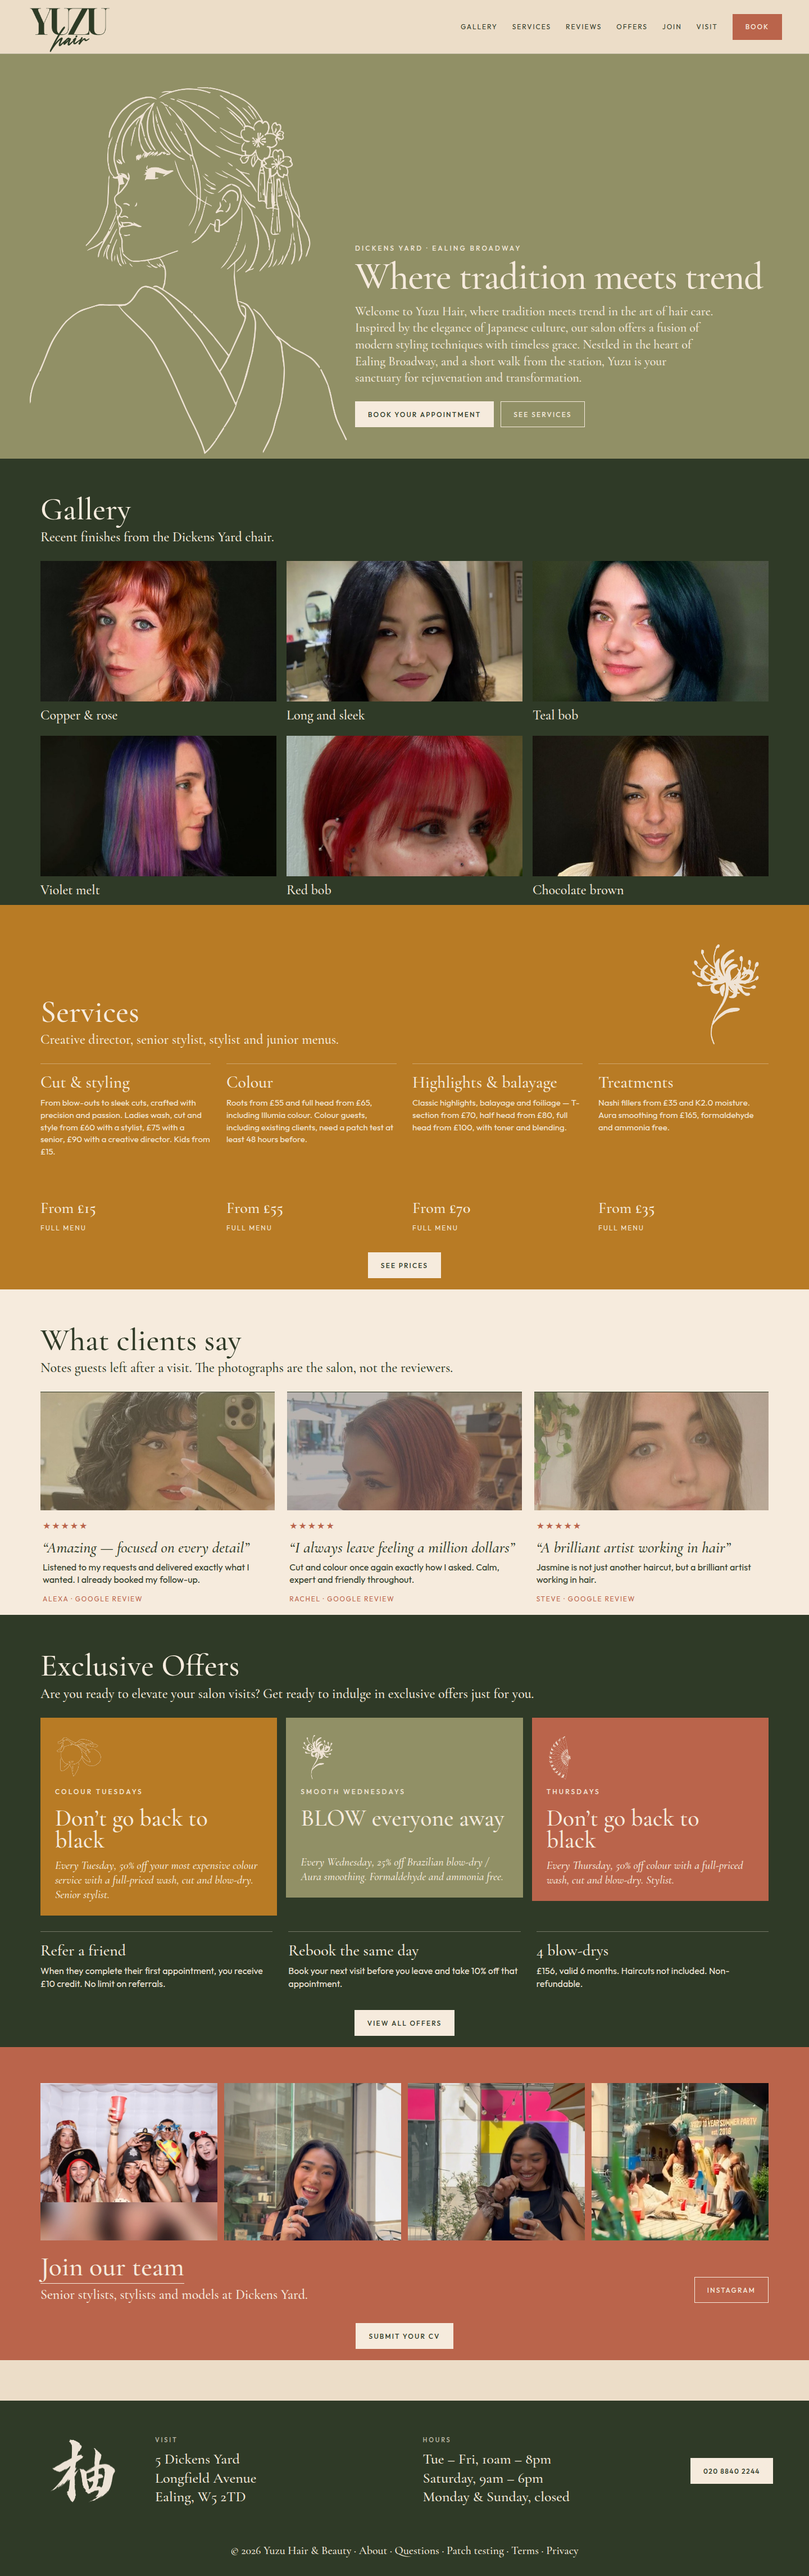
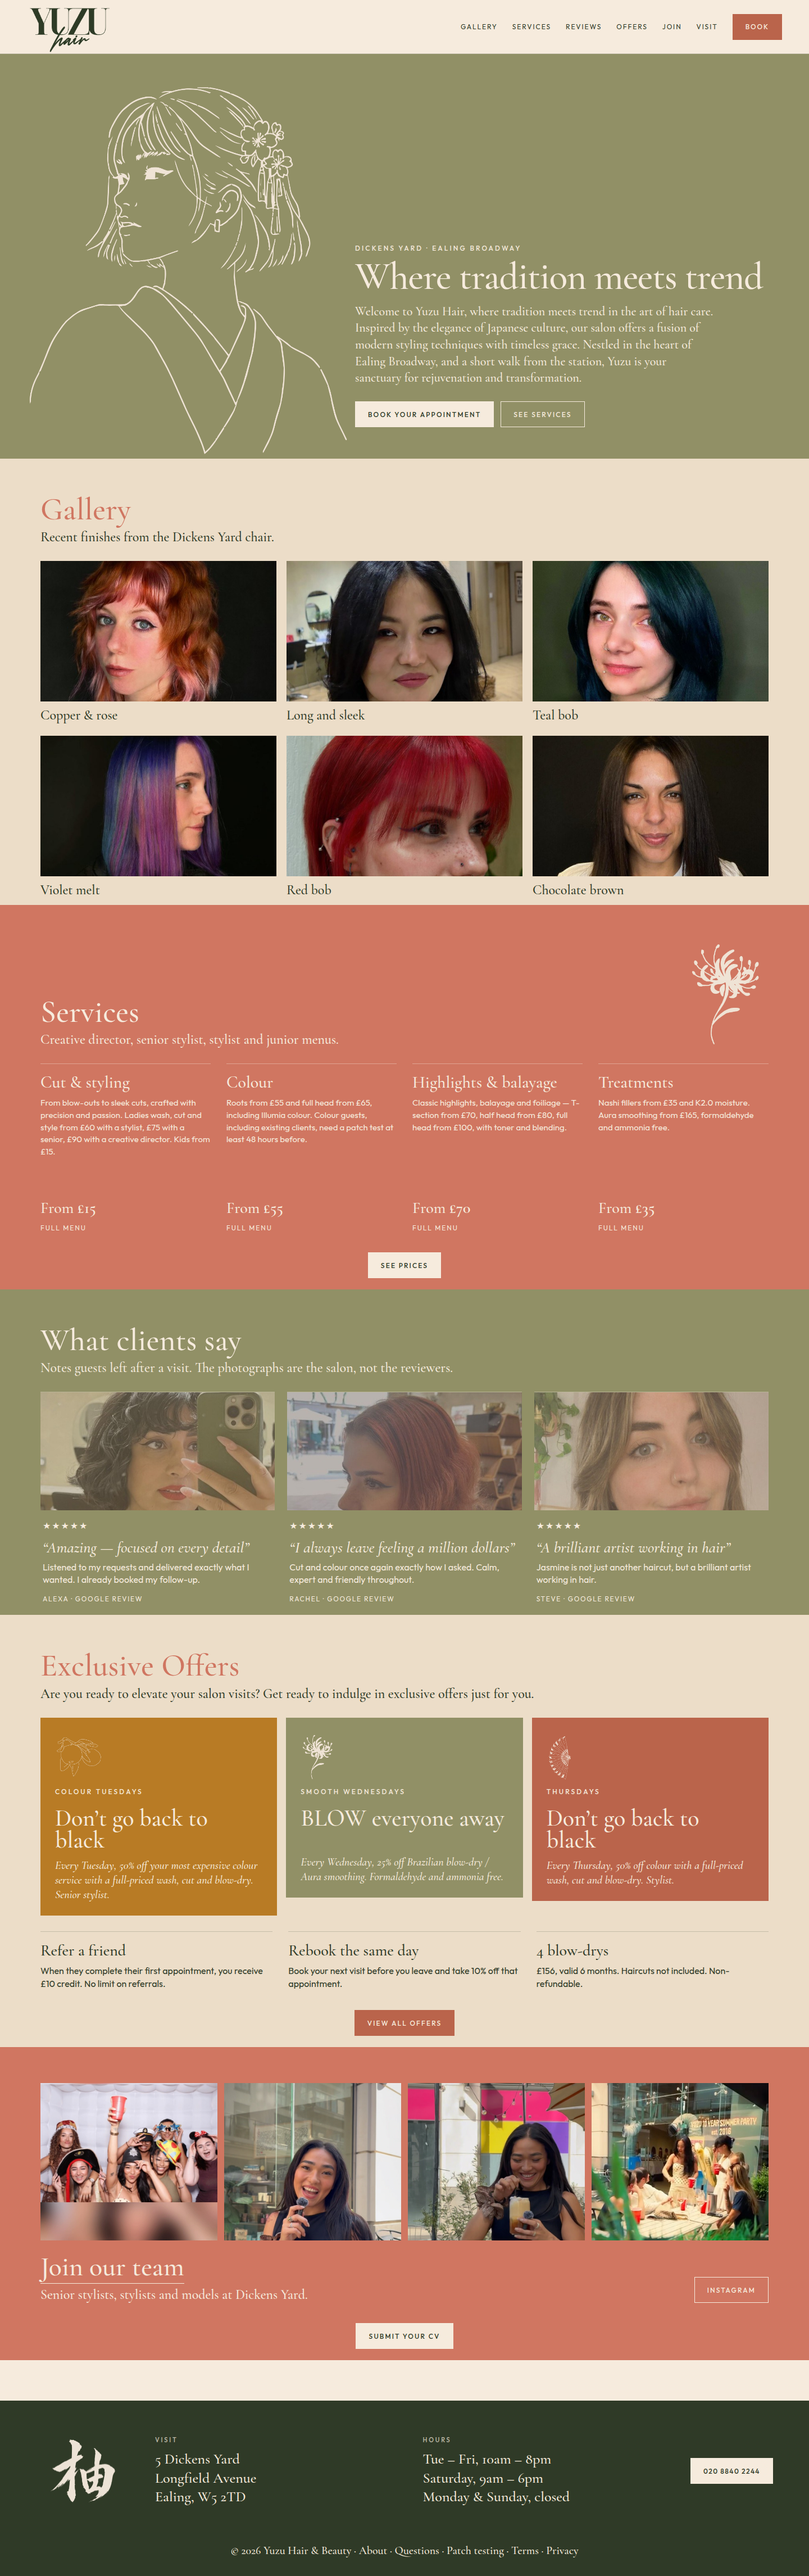
Retint the homepage clusters to the card and menu colours.
Section fields now use the business-card olive, the menu paper, and the menu-cover terracotta.

diff --git a/proposals/homepage/index.html b/proposals/homepage/index.html
@@ -33,17 +33,17 @@
     <figure>
       <a href="blocks.html"><img src="previews/blocks.png" alt="Homepage with each section in a different brand colour." /></a>
       <h2><a href="blocks.html">Colour blocks</a></h2>
-      <figcaption>The same page. Hero on olive, gallery on cream, services on forest, reviews on terracotta, offers on cream, join on mustard.</figcaption>
+      <figcaption>The same page, in the business-card olive, the menu paper, and the menu-cover terracotta. Hero and services on olive, gallery and offers on the menu paper, reviews and join on terracotta.</figcaption>
     </figure>
     <figure>
       <a href="portrait.html"><img src="previews/portrait.png" alt="Homepage with the illustrated woman as the hero." /></a>
       <h2><a href="portrait.html">Portrait</a></h2>
-      <figcaption>The woman from the print is the hero, on olive. Gallery on forest, services on mustard with the lily, offers on forest with the fruit, flower and fan.</figcaption>
+      <figcaption>The woman from the print is the hero, on the business-card olive. Gallery and offers sit on the menu paper. Services and join use the menu-cover terracotta. Reviews are on olive.</figcaption>
     </figure>
     <figure>
       <a href="drawn.html"><img src="previews/drawn.png" alt="Homepage with the illustrated man as the hero and line drawings in the reviews." /></a>
       <h2><a href="drawn.html">Drawings</a></h2>
-      <figcaption>The man from the print is the hero, on forest. The hair gallery stays. Reviews use the lily, the fruit and the fan instead of the salon photographs.</figcaption>
+      <figcaption>The man from the print is the hero, on the menu-cover terracotta. Services use the menu paper and the orange fan. Reviews are on the card olive, with the lily, the fruit and the fan.</figcaption>
     </figure>
     <figure>
       <a href="cover.html"><img src="previews/cover.png" alt="Homepage mockup. Olive field, line portrait, beige Yuzu hair logo, and a paper band with hours." /></a>

diff --git a/proposals/homepage/drawn.html b/proposals/homepage/drawn.html
@@ -6,7 +6,7 @@
   <link rel="stylesheet" href="fonts/fonts.css" />
   <link rel="stylesheet" href="now.css" />
 </head>
-<body class="now">
+<body class="now clusters">
   <header class="bar">
     <img class="logo" src="img/logo-green.png" alt="Yuzu hair" />
     <nav class="nav" aria-label="Primary">
@@ -20,7 +20,7 @@
     </nav>
   </header>
 
-  <section class="hero hero-drawn bg-forest ink-light">
+  <section class="hero hero-drawn bg-terra ink-light">
     <div class="portrait">
       <img src="img/man-beige.png" alt="" />
     </div>
@@ -35,7 +35,7 @@
     </div>
   </section>
 
-  <section class="section wrap bg-cream" id="gallery">
+  <section class="section wrap bg-paper" id="gallery">
     <div class="section-head">
       <h2>Gallery</h2>
       <p>Recent finishes from the Dickens Yard chair.</p>
@@ -50,13 +50,13 @@
     </ul>
   </section>
 
-  <section class="section wrap bg-olive ink-light" id="services">
+  <section class="section wrap bg-paper" id="services">
     <div class="section-head with-art">
       <div>
         <h2>Services</h2>
         <p>Creative director, senior stylist, stylist and junior menus.</p>
       </div>
-      <img src="img/fan-beige.png" alt="" />
+      <img src="img/fan-orange.png" alt="" />
     </div>
     <ul class="services">
       <li>
@@ -87,7 +87,7 @@
     <p class="center-cta"><a class="btn terra" href="menu.html">See prices</a></p>
   </section>
 
-  <section class="section wrap bg-mustard ink-light" id="reviews">
+  <section class="section wrap bg-olive ink-light" id="reviews">
     <div class="section-head">
       <h2>What clients say</h2>
       <p>Notes guests left after a visit.</p>
@@ -123,7 +123,7 @@
     </ul>
   </section>
 
-  <section class="section wrap bg-cream" id="offers">
+  <section class="section wrap bg-paper" id="offers">
     <div class="section-head">
       <h2>Exclusive Offers</h2>
       <p>Are you ready to elevate your salon visits? Get ready to indulge in exclusive offers just for you.</p>

diff --git a/proposals/homepage/blocks.html b/proposals/homepage/blocks.html
@@ -6,7 +6,7 @@
   <link rel="stylesheet" href="fonts/fonts.css" />
   <link rel="stylesheet" href="now.css" />
 </head>
-<body class="now">
+<body class="now clusters">
   <header class="bar">
     <img class="logo" src="img/logo-green.png" alt="Yuzu hair" />
     <nav class="nav" aria-label="Primary">
@@ -33,7 +33,7 @@
     </div>
   </section>
 
-  <section class="section wrap bg-cream" id="gallery">
+  <section class="section wrap bg-paper" id="gallery">
     <div class="section-head">
       <h2>Gallery</h2>
       <p>Recent finishes from the Dickens Yard chair.</p>
@@ -48,7 +48,7 @@
     </ul>
   </section>
 
-  <section class="section wrap bg-forest ink-light" id="services">
+  <section class="section wrap bg-olive ink-light" id="services">
     <div class="section-head">
       <h2>Services</h2>
       <p>Creative director, senior stylist, stylist and junior menus.</p>
@@ -118,7 +118,7 @@
     </ul>
   </section>
 
-  <section class="section wrap bg-cream" id="offers">
+  <section class="section wrap bg-paper" id="offers">
     <div class="section-head">
       <h2>Exclusive Offers</h2>
       <p>Are you ready to elevate your salon visits? Get ready to indulge in exclusive offers just for you.</p>
@@ -163,7 +163,7 @@
     <p class="center-cta"><a class="btn terra" href="poster.html">View all offers</a></p>
   </section>
 
-  <section class="section wrap bg-mustard ink-light" id="team">
+  <section class="section wrap bg-terra ink-light" id="team">
     <ul class="team-row">
       <li><img class="together" src="../../site/assets/team/together.jpg" alt="The Yuzu team together" /></li>
       <li><img src="../../site/assets/team/meet.jpg" alt="Stylist outside the Yuzu salon" /></li>

diff --git a/proposals/homepage/portrait.html b/proposals/homepage/portrait.html
@@ -6,7 +6,7 @@
   <link rel="stylesheet" href="fonts/fonts.css" />
   <link rel="stylesheet" href="now.css" />
 </head>
-<body class="now">
+<body class="now clusters">
   <header class="bar">
     <img class="logo" src="img/logo-green.png" alt="Yuzu hair" />
     <nav class="nav" aria-label="Primary">
@@ -35,7 +35,7 @@
     </div>
   </section>
 
-  <section class="section wrap bg-forest ink-light" id="gallery">
+  <section class="section wrap bg-paper" id="gallery">
     <div class="section-head">
       <h2>Gallery</h2>
       <p>Recent finishes from the Dickens Yard chair.</p>
@@ -50,7 +50,7 @@
     </ul>
   </section>
 
-  <section class="section wrap bg-mustard ink-light" id="services">
+  <section class="section wrap bg-terra ink-light" id="services">
     <div class="section-head with-art">
       <div>
         <h2>Services</h2>
@@ -87,7 +87,7 @@
     <p class="center-cta"><a class="btn terra" href="menu.html">See prices</a></p>
   </section>
 
-  <section class="section wrap bg-cream" id="reviews">
+  <section class="section wrap bg-olive ink-light" id="reviews">
     <div class="section-head">
       <h2>What clients say</h2>
       <p>Notes guests left after a visit. The photographs are the salon, not the reviewers.</p>
@@ -123,7 +123,7 @@
     </ul>
   </section>
 
-  <section class="section wrap bg-forest ink-light" id="offers">
+  <section class="section wrap bg-paper" id="offers">
     <div class="section-head">
       <h2>Exclusive Offers</h2>
       <p>Are you ready to elevate your salon visits? Get ready to indulge in exclusive offers just for you.</p>

diff --git a/proposals/homepage/now.css b/proposals/homepage/now.css
@@ -317,7 +317,13 @@ a { color: inherit; text-decoration: none; }
 .bg-olive { background: var(--olive); }
 .bg-forest { background: var(--forest); }
 .bg-mustard { background: var(--mustard); }
-.bg-terra { background: var(--terra-deep); }
+.bg-terra { background: var(--terra); }
+.bg-paper { background: var(--paper); color: var(--forest); }
+.bg-paper h2,
+.bg-paper h3 { color: var(--terra); }
+.bg-paper .services .from b,
+.bg-paper .services a { color: var(--terra); }
+body.clusters { background: #f6ebdd; }
 .bg-cream { background: var(--cream); }
 .ink-light { color: var(--cream); }
 .ink-light figcaption,
@@ -344,7 +350,8 @@ a { color: inherit; text-decoration: none; }
 
 .hero-drawn.bg-olive,
 .hero-drawn.bg-forest,
-.hero-drawn.bg-mustard { padding: 0; }
+.hero-drawn.bg-mustard,
+.hero-drawn.bg-terra { padding: 0; }
 .hero-drawn {
   display: grid;
   grid-template-columns: 620px 1fr;
